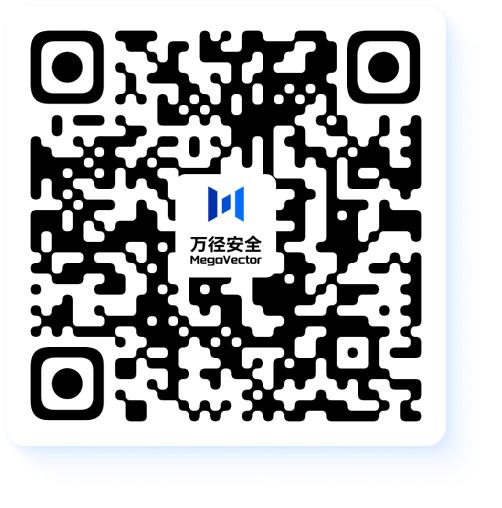
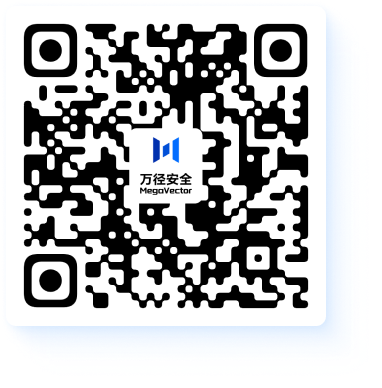
style：样式调整

diff --git a/pages/aboutUs.vue b/pages/aboutUs.vue
@@ -19,7 +19,7 @@
 
   <!-- 发展历程 -->
   <div class="mx-auto mt-[150px] mb-[285px]">
-    <div class="relative py-[15px] px-[40px] mb-[200px] mx-auto w-[250px]">
+    <div class="relative py-[15px] px-[40px] mb-[250px] mx-auto w-[250px]">
       <svg class="absolute left-[0] top-[0] w-[21px] h-[21px]" xmlns="http://www.w3.org/2000/svg" viewBox="0 0 21 21"
         fill="none">
         <path d="M21 3H3V21" stroke="#0070FF" stroke-width="6" />
@@ -794,15 +794,15 @@
     <div class="relative wjaq-container mx-auto h-[100%]">
       <div class="absolute left-[50%] top-[-110px] translate-x-[-50%] flex">
         <div class="flex flex-col items-center mr-[50px]">
-          <img src="@/assets/Images/wanjing-code.png" alt="" class="w-[220px]">
-          <div class="text-[18px] mr-[25px]">万径安全公众号</div>
+          <img src="@/assets/Images/wanjing-code.png" alt="" class="w-[170px]">
+          <div class="text-[18px] mr-[10px] mt-[-10px]">万径安全公众号</div>
         </div>
         <div class="flex flex-col items-center ml-[50px]">
-          <img src="@/assets/Images/yakit-code.png" alt="" class="w-[220px]">
-          <div class="text-[18px] mr-[20px]">Yakit企业版小助手</div>
+          <img src="@/assets/Images/yakit-code.png" alt="" class="w-[170px]">
+          <div class="text-[18px] mr-[10px] mt-[-10px]">Yakit企业版小助手</div>
         </div>
       </div>
-      <div class="absolute top-[220px] left-[50%] translate-x-[-50%] flex justify-around w-[100%]">
+      <div class="absolute top-[150px] left-[50%] translate-x-[-50%] flex justify-around w-[100%]">
         <div class="text-[22px]">
           <div
             class="flex items-center rounded-[60px] bg-[#0070FF] color-[#fff] py-[16px] px-[47px] text-[18px] mt-[45px]">
@@ -811,7 +811,6 @@
                 d="M2.5 6.7128L15.8794 14.6114C17.0555 15.3058 18.5161 15.3058 19.6922 14.6114L33.0716 6.7128V2.5H2.5V6.7128ZM0 2C0 0.895431 0.895431 0 2 0H33.5716C34.6762 0 35.5716 0.895431 35.5716 2V23.8069C35.5716 24.9114 34.6762 25.8069 33.5716 25.8069H2C0.895427 25.8069 0 24.9114 0 23.8069V2ZM33.0716 9.61595L20.9632 16.7643C19.003 17.9215 16.5686 17.9215 14.6084 16.7643L2.5 9.61595V23.3069H33.0716V9.61595Z"
                 fill="white" />
             </svg>
-
             <span class="ml-[15px]">market@4dogs.cn</span>
           </div>
         </div>
@@ -834,7 +833,6 @@
                 d="M12.7933 20.6776C13.6847 21.3691 14.906 21.4524 15.883 20.8883C16.8569 20.326 18.1022 20.6597 18.6645 21.6336L20.4826 24.7826C20.7556 25.2555 20.5936 25.8602 20.1207 26.1332C17.3846 27.7129 13.9258 27.2373 11.7176 24.9776C7.82654 20.9959 4.99964 16.0995 3.49686 10.7389C2.64401 7.69671 3.96151 4.46347 6.69762 2.88378C7.17051 2.61075 7.77519 2.77278 8.04822 3.24567L9.8663 6.39468C10.4286 7.36858 10.0949 8.61391 9.121 9.17619C8.14398 9.74027 7.60551 10.8396 7.75866 11.9573C8.23176 15.4107 10.0392 18.5412 12.7933 20.6776ZM14.3256 18.7022C14.4144 18.7711 14.5359 18.7793 14.633 18.7233C16.8026 17.4706 19.5769 18.214 20.8296 20.3836L22.6477 23.5326C23.611 25.2013 23.0393 27.3349 21.3707 28.2983C17.6454 30.4491 12.9361 29.8015 9.92953 26.7249C5.74545 22.4432 2.70563 17.1781 1.08967 11.4138C-0.0715173 7.27172 1.7223 2.86953 5.44762 0.718713C7.11624 -0.244667 9.2499 0.327046 10.2133 1.99567L12.0314 5.14468C13.284 7.31431 12.5406 10.0886 10.371 11.3412C10.2739 11.3973 10.2203 11.5067 10.2355 11.6179C10.6199 14.4234 12.0882 16.9667 14.3256 18.7022Z"
                 fill="white" />
             </svg>
-
             <span class="ml-[15px]">028-8522 5545（成都）</span>
           </div>
         </div>

diff --git a/pages/securityService.vue b/pages/securityService.vue
@@ -7,7 +7,7 @@
   <div class="h-[560px] bg-[#F4FAFF]">
     <div class="wjaq-container mx-auto h-[100%] flex justify-between items-center">
       <div class="">
-        <div class="text-[45px] font-bold-600 text-center">更全面的安全服务</div>
+        <div class="text-[50px] font-bold-600 text-center">更全面的安全服务</div>
         <div class="text-[20px] mt-[28px]">
           <span class="inline-block rounded-25 bg-[#0070FF] color-[#fff] px-[27px] py-[8px] ml-[24px]">
             专业
@@ -70,13 +70,13 @@
           为企业提供常规应急响应支持服务的同时，还会对企业进行全面的内网渗透测试，并提出安全修复建议，降低安全事件发生的概率。</div>
       </div>
       <div data-aos="fade-left">
-        <img src="@/assets/Images/securityService-xy.png" alt="" class="h-[230px]">
+        <img src="@/assets/Images/securityService-xy.png" alt="" class="h-[250px]">
       </div>
     </div>
     <!-- 代码审计 -->
     <div class="flex justify-between items-center px-[10px] mb-[195px]">
       <div data-aos="fade-right">
-        <img src="@/assets/Images/securityService-codesj.png" alt="" class="h-[240px]">
+        <img src="@/assets/Images/securityService-codesj.png" alt="" class="h-[250px]">
       </div>
       <div data-aos="fade-left" class="w-[600px]">
         <div class="text-[32px] font-bold-600 mb-[16px]">代码审计</div>

diff --git a/pages/index/index.vue b/pages/index/index.vue
@@ -113,7 +113,7 @@ const newBannerBottomList = computed(() => {
   <Title>首页</Title>
   <!-- 头部轮播 -->
   <div class="h-[560px] bg-[#F4FAFF]">
-    <swiper class="h-[100%]" :speed="1000" loop :autoplayDisableOnInteraction="false" :pagination="{
+    <swiper class="h-[100%]" :speed="1000" loop autoplay :autoplayDisableOnInteraction="false" :pagination="{
       el: '.swiper-pagination',
       clickable: true,
     }">
@@ -368,7 +368,7 @@ const newBannerBottomList = computed(() => {
     </div>
   </div>
 
-  <!-- 底部轮播 TODO 背景-->
+  <!-- 底部轮播 -->
   <div class="bottom-swiper-wrap relative overflow-hidden h-[500px] bg-[#1E83FF]">
     <div class="bottom-left-bg absolute left-[0] top-[0]">
       <img src="@/assets/Images/bottom-banner-left-bg.png" alt="" class="h-[500px]">
@@ -378,7 +378,7 @@ const newBannerBottomList = computed(() => {
     </div>
     <div class="wjaq-container mx-auto h-[100%] font-bold overflow-hidden">
       <div class="text-[40px] text-center text-[#fff] my-[70px]">他们也选择万径</div>
-      <swiper class="h-[160px] W-[100%]" :speed="1000" loop :autoplayDisableOnInteraction="false" :navigation="{
+      <swiper class="h-[160px] W-[100%]" :speed="1000" autoplay loop :autoplayDisableOnInteraction="false" :navigation="{
         nextEl: '.swiper-button-next',
         prevEl: '.swiper-button-prev',
       }">

diff --git a/pages/index/xiaozhi.vue b/pages/index/xiaozhi.vue
@@ -712,4 +712,5 @@ const coreTechnologyList = ref([
   .nlcz-wrap {
     width: 250px;
   }
-}</style>
+}
+</style>
